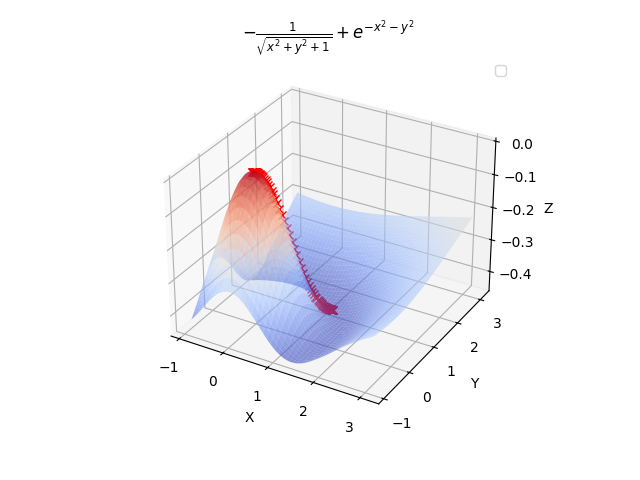
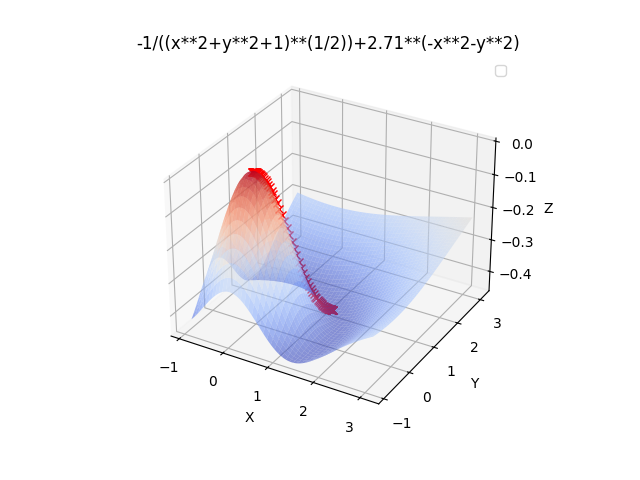
linear_regression 3d and countour graphics added

Changed region(s): [[0.2188, 0.0312, 0.8125, 0.125]]

diff --git a/utils.py b/utils.py
@@ -1,3 +1,4 @@
+import numexpr as ne
 from sympy import symbols, sympify, latex   
 import matplotlib.pyplot as plt
 import numpy as np
@@ -38,10 +39,6 @@ def generate_error_graphic(error_list,equation_string,save_img=False):
     plt.grid()
     plt.show()
 
-def my_expression(x,y):
-    return -1/((x**2+y**2+1)**(1/2))+2.71**(-x**2-y**2)
-#return 3*x**2+2*(y-3)**2
-
 def generate_2d_graphic(dot_list,equation,symbols,equation_in_string,save_img=False,range_print=1):
 
     last_element = float(dot_list[-1][0])
@@ -63,14 +60,10 @@ def generate_3d_graphic(dot_list,equation,symbols,equation_in_string,save_img=Fa
     y = np.linspace(last_element_y-range_print, last_element_y+range_print, len(dot_list))
     x, y = np.meshgrid(x, y)
 
-    z = my_expression(x,y)
+    def evaluate_function(x,y):
+        return ne.evaluate(equation_in_string)
 
-    z_string = to_string(my_expression)
-
-    if z_string.split('return ')[-1] != equation_in_string:
-        print(z_string.split('return ')[-1])
-        print(equation_in_string)
-        raise Exception('Equation in generate_3d_graphic not adjusted, change the equation in my_expression function')
+    z = evaluate_function(x,y)
 
     #3d graphic
     fig = plt.figure()
@@ -88,21 +81,6 @@ def generate_3d_graphic(dot_list,equation,symbols,equation_in_string,save_img=Fa
     if save_img: plt.savefig(f'img/3d.png')
     plt.show()
 
-    """
-    fig = plt.figure()
-    ax = fig.add_subplot(111)
-    ax.plot([i[0] for i in dot_list], [i[1] for i in dot_list], 'xr')
-    #ax.plot_surface(x,y,z,cmap='coolwarm', alpha=0.6)
-    ax.contourf(x, y, z, 50, cmap='viridis', linestyles='solid')  
-
-    ax.set_title(equation_in_string)
-    ax.set_xlabel('X')
-    ax.set_ylabel('Y')
-    ax.legend()
-    if save_img: plt.savefig(f'img/3d_niveis.png')
-    plt.show()
-    """
-
 def generate_countour_line_graphic(dot_list,equation,symbols,equation_in_string,save_img=False,range_print=1): 
     
     last_element_x = float(dot_list[-1][0])
@@ -112,22 +90,17 @@ def generate_countour_line_graphic(dot_list,equation,symbols,equation_in_string,
     y = np.linspace(last_element_y-range_print, last_element_y+range_print, len(dot_list))
     x, y = np.meshgrid(x, y)
 
-    z = my_expression(x,y)
+    def evaluate_function(x,y):
+        return ne.evaluate(equation_in_string)
 
-    z_string = to_string(my_expression)
-
-    if z_string.split('return ')[-1] != equation_in_string:
-        print(z_string.split('return ')[-1])
-        print(equation_in_string)
-        raise Exception('Equation in generate_3d_graphic not adjusted, change the equation in my_expression function')
-
+    z = evaluate_function(x,y)
     fig = plt.figure()
     ax = fig.add_subplot(111)
     ax.plot([i[0] for i in dot_list], [i[1] for i in dot_list], 'xr')
     #ax.plot_surface(x,y,z,cmap='coolwarm', alpha=0.6)
     ax.contourf(x, y, z, 50, cmap='viridis', linestyles='solid')  
 
-    ax.set_title(equation_in_string)
+    ax.set_title(equation_in_string) 
     ax.set_xlabel('X')
     ax.set_ylabel('Y')
     ax.legend()

diff --git a/linear_regression.py b/linear_regression.py
@@ -1,4 +1,4 @@
-from utils import create_function, get_value, generate_error_graphic, generate_2d_graphic, generate_3d_graphic, generate_gif_linear_regression
+from utils import create_function, get_value, generate_error_graphic, generate_2d_graphic, generate_3d_graphic, generate_gif_linear_regression, generate_countour_line_graphic
 from gradient_descent import gradient_descent
 import numpy as np
 import matplotlib.pyplot as plt
@@ -12,17 +12,22 @@ equation_in_string = equation_in_string[:-1]
 
 print(equation_in_string)
 
-initial_dot, range_print, learning_rate, expected_error = [5,5], 1, 0.01, 0.0001
-max_iteration, create_gif = 400, True
+initial_dot, range_print, learning_rate, expected_error = [5,5], 6, 0.01, 0.0001
+max_iteration, create_gif, create_3d_graphic = 400, False, True
+save_img, countour_line_graphic = False, True
 
 equation, symbols = create_function(equation_in_string)
 print(symbols)
 
 dot_list, error_list = gradient_descent(equation, symbols, learning_rate=learning_rate , initial_dot=initial_dot, expected_error=expected_error, max_iteration=max_iteration)
 
-#generate_error_graphic(error_list,equation)
+generate_error_graphic(error_list,equation)
 
 print(f"coeficient a:{dot_list[-1][0]}\ncoeficient b:{dot_list[-1][1]}")
 
 if create_gif:
     generate_gif_linear_regression(regression_dots,dot_list)
+if create_3d_graphic:
+    generate_3d_graphic(dot_list,equation,symbols,equation_in_string,save_img,range_print)
+    if countour_line_graphic:
+        generate_countour_line_graphic(dot_list,equation,symbols,equation_in_string,save_img,range_print)

diff --git a/main.py b/main.py
@@ -3,8 +3,6 @@ from gradient_descent import gradient_descent
 import numpy as np
 import matplotlib.pyplot as plt
 
-# if the function has 2 variables, you need to place the function again in my_expression function.
-
 #equation_in_string = "3*x**2+2*(y-3)**2"
 equation_in_string = "-1/((x**2+y**2+1)**(1/2))+2.71**(-x**2-y**2)"
 #equation_in_string  = "x**2-3*x" one variable(x), change the initial_dot
